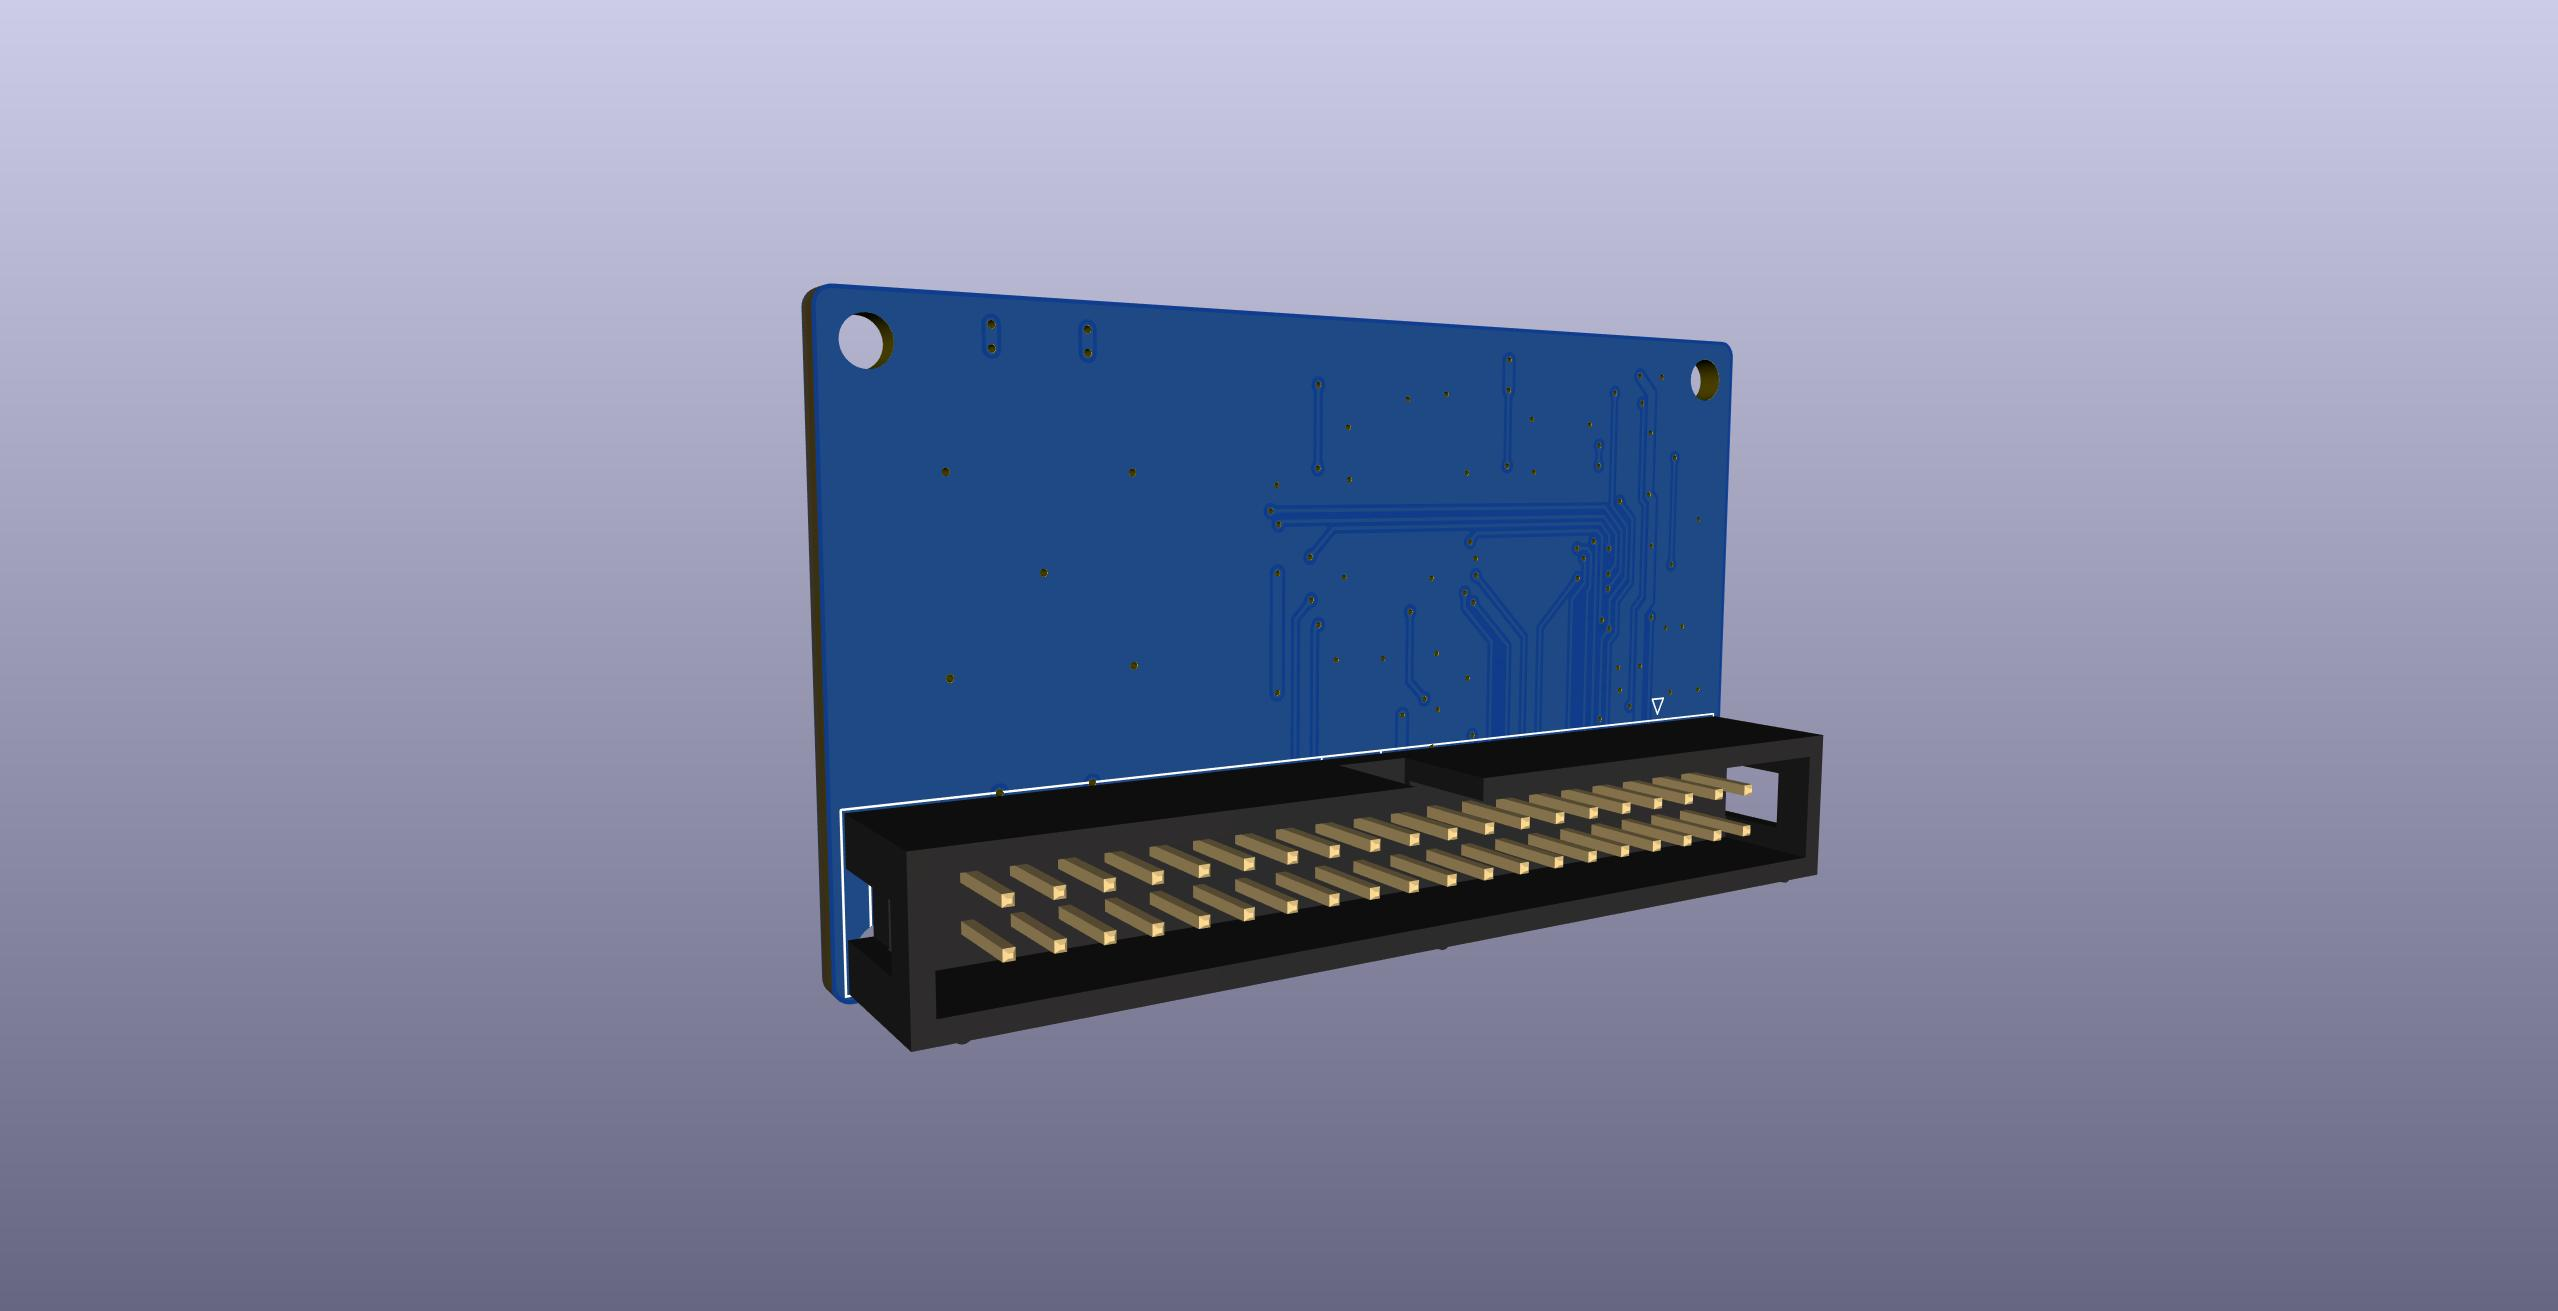
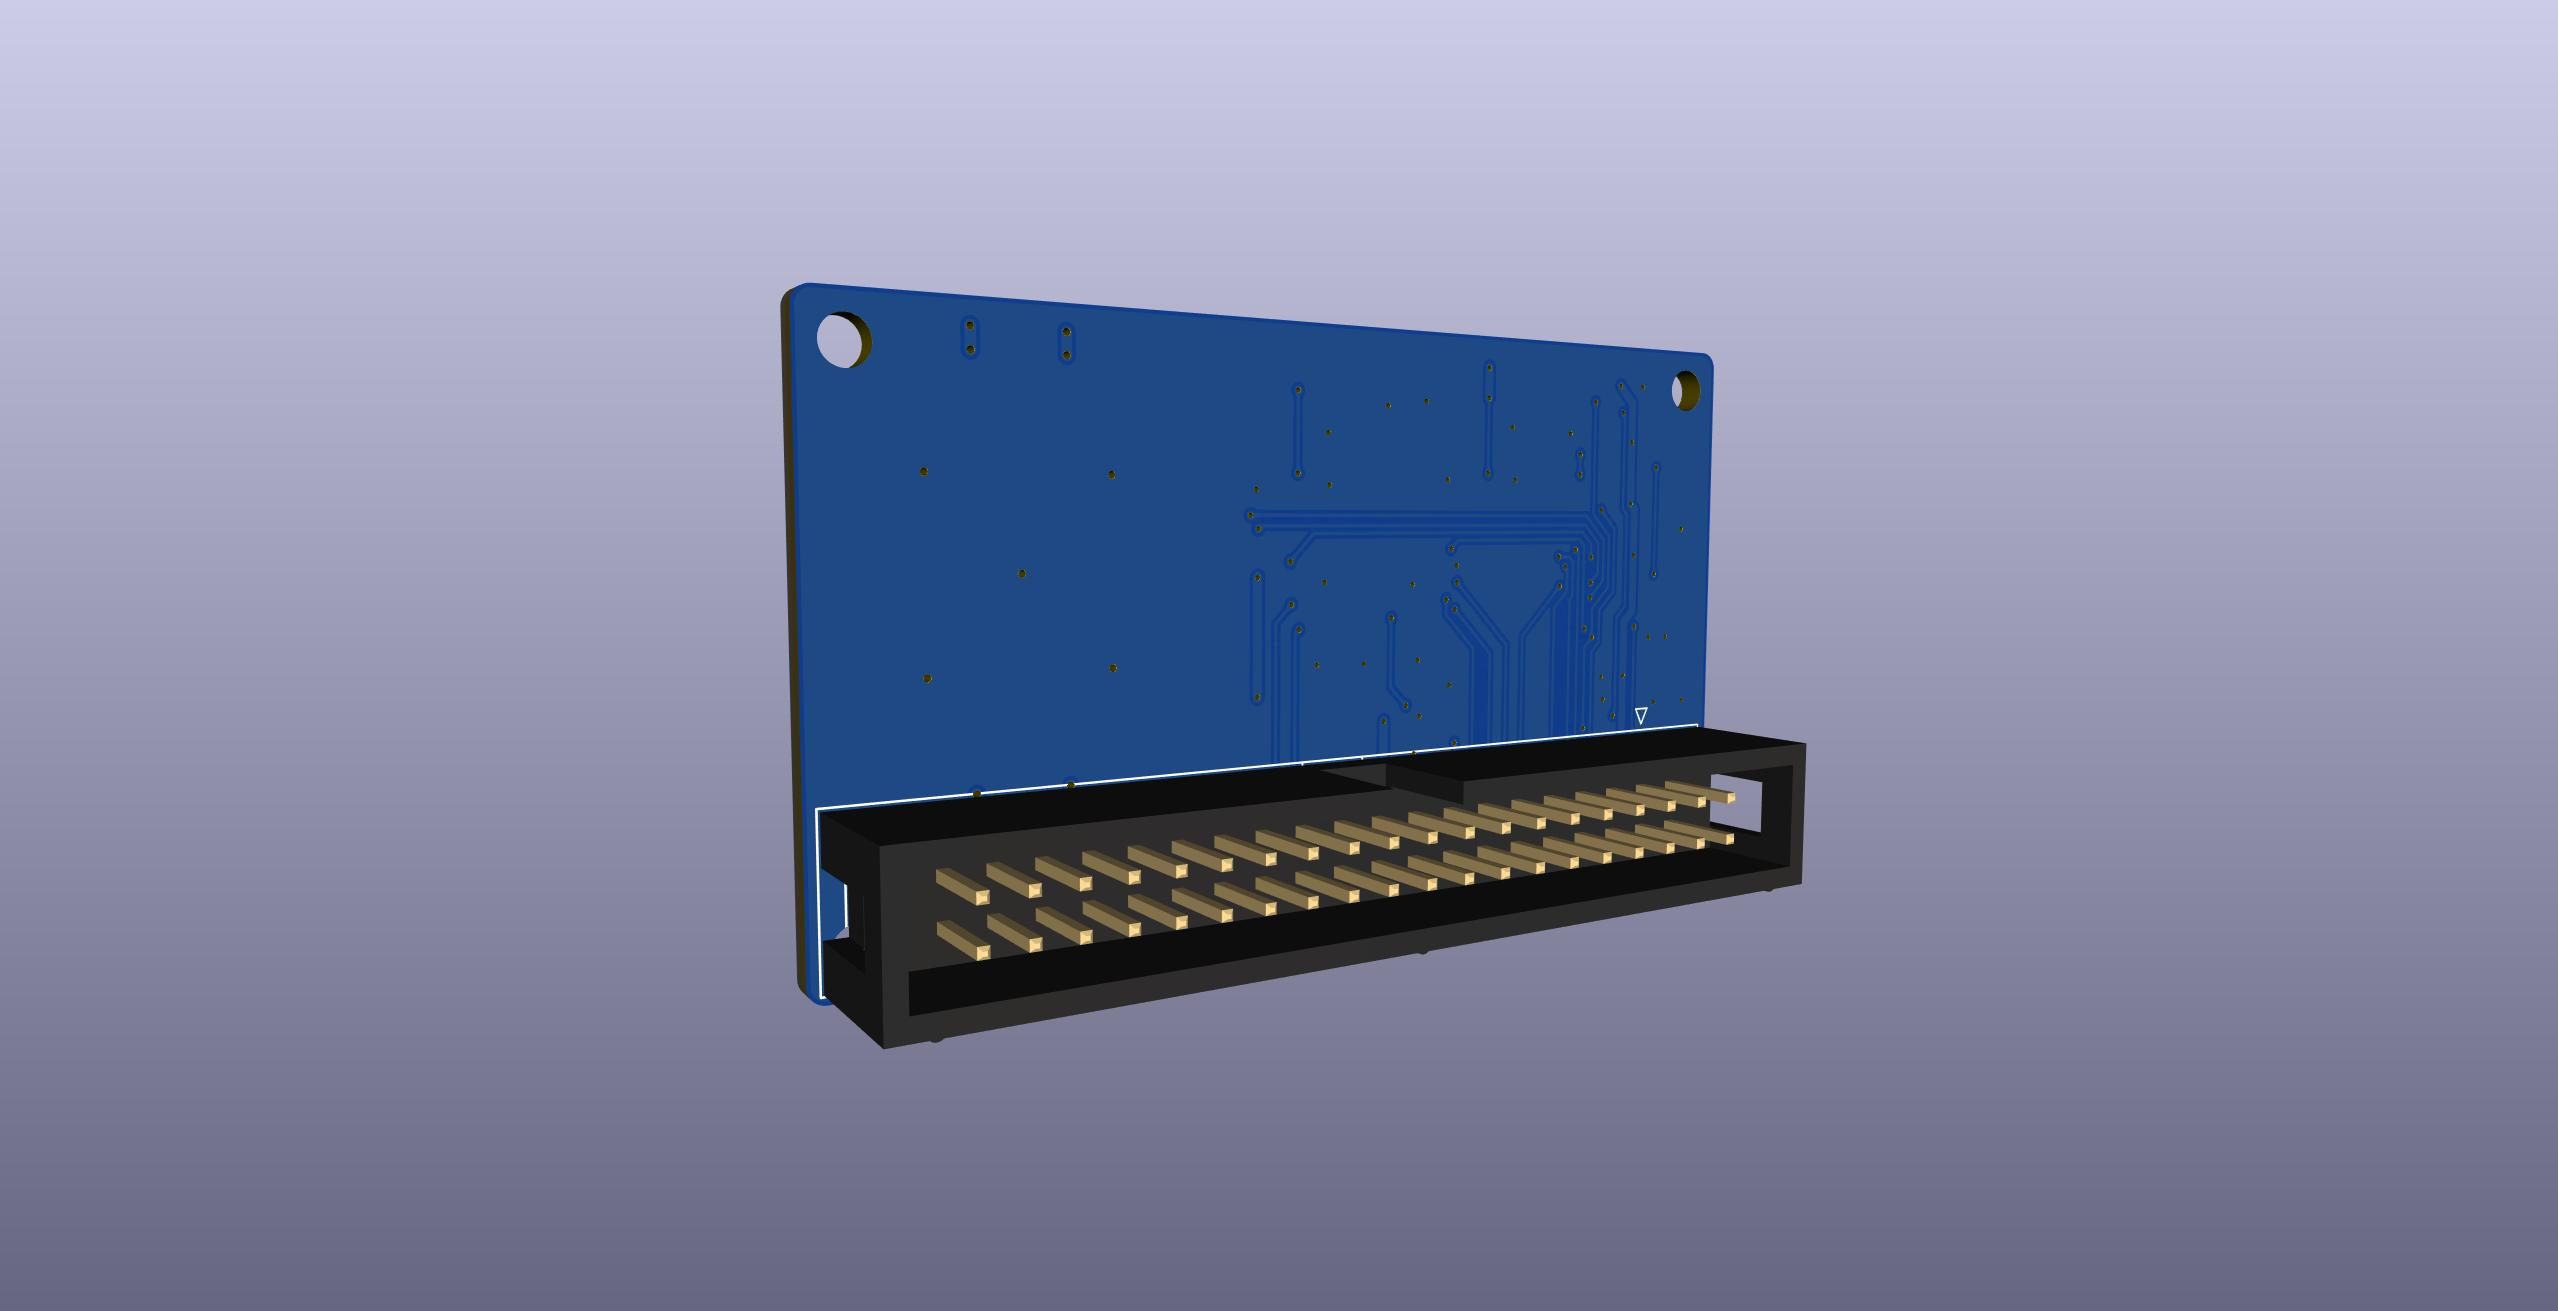
readme and tiny pcb trace position adjustments

Changed region(s): [[0.278, 0.2136, 0.7103, 0.8238]]

diff --git a/README.md b/README.md
@@ -136,10 +136,38 @@ The device is actually acting a bit like a disk even though it has no brains or 
 
 I do not yet know how the software side of the process works.
 
-# WIP: "MiniNDP"
-* Replace all the THT parts with SMT parts  
-* Replace the 8 32k chips and chip-select decoder with a single 256k or 512k chip  
-* 
+# MiniNDP
+Not yet tested.  
+
+Works the same as DATAPAC (hopefully), just with a single 256k (or 512k) SRAM and all SMT parts, and directly attached instead of connected by a cable.  
+
+Height is only 34mm. The top edge stops about 8.5mm below the top surface of a Model 200, and stands about 6.5mm above the top surface of a Model 102.  
+
+The connector fits in a Model 200 without having to modify the 200.  
+
+Works on Model 100 with the same adapter cable described above.  
+
+All the caps are optional. The original DATAPAC seems to work fine without any. However:  
+* C1 provides about 15 seconds of battery-change time, even assuming the battery has already almost died and is down to 2.3v when removed.  
+* C6 would add to the battery-change time too, but the purpose of C6 is to keep VBUS alive and keep all the chips stable on disconnect, and let the RAM_RST/SLEEP pullup disable the SRAM. I don't know if this is a good or bad idea, or merely harmless but pointless. The original DATAPAC includes a very strong pulldown (5.1k) against VBUS on an active-high enable pin on the 3-8 decoder that disables all 8 sram chips fast if VBUS is disconnected. The new circuit doesn't have that. There is an active-high enable pin on the 256k sram that could be wired up the same way, but that pin is just an un-used address line on the 512k chip, and there is no equivalent active-high enable pin on the 512k chip. So the circuit is desgned to just let RAM_RST/SLEEP take care of disabling the sram on disconnect. This also saves one full milliamp of continuous current drain on the host's batteries while connected to the host.  
+
+D2 is copied from a user mod found on a DATAPAC. It appears to prevent a battery drain on the host computer while the DATAPAC is left connected to the host while the host is turned off. R1 does the job of pulling RAM_RST/SLEEP high whenever needed, so it's not required to rely on the host to drive it high. The pullup is actually even weaker on the original unit, 240k, and the original modded unit works fine, so even the weak pullup is still fast enough to disable sram even during the rapid on/off during data transfers when the sram need to be disabled briefly between each byte address change. If the original unit works with 240k ohm, then 200k will only be faster and safer. However, to more strictly replicate the original DATAPAC circuit if you wanted, you could omit D2 and short D2 pads 2 & 3 with a solder blob.  
+
+BT1 is shown using a CR2032 holder. This is thin, but still the tallest/thickest thing on the board.  
+If you wanted the card to be even thinner & more even, you could substitute a CR2016 holder.  
+A CR2032 gives over 7.5 years of memory. (200mAh to reach 2.4v / 3uA)  
+A CR2016 gives about 3 years of memory. (80mAh to reach 2.4v / 3uA)  
+Equivalent part numbers for holders that fit the same solder footprint:  
+For CR2032: Keystone 3034, TE/Linx BAT-HLD-001, Adam Tech BH-67, MPD BK-912  
+For CR2016: Keystone 3029, TE/Linx BAT-HLD-002  
+
+The SRAM is shown using a 256Kx8 part. This is the ideal part since it's a 256K device and no ram is wasted, but 256Kx8 5v parallel sram are uncommon today. It is an uncommon in-between size, where both 128k and 512k are more commonly manufactured. AS6C2008A are still made new, and can be ordered in individual quantities from Mouser, but for instance DigiKey only sells them in bulk. That is a single manufacturer and a single retailer, not counting ebay.  
+But AS6C4008 is more available. Both DigiKey and Mouser sell them new in individual quantities. There are also a few other manufacturers still making similar parts, though not available in individual quantities. 512Kx8 are basically more available than 256Kx8.  
+To allow the drop-in use of either a 256K or 512K part, the active-high CE2 pin on the 256K part is not used to enable or disable the chip, only the active-low /CE1. CE2 is tied to VMEM, making it no-op on the 256K part.  
+The 512K part has no active-high CE2 pin. That pin is instead an extra address line, which is also effectively no-op by being tied to VMEM.  
+So either 256Kx8 (AS6C2008A) or 512Kx8 (AS6C4008) may be dropped in place and work the same.  
+For the 256K part, note that it must specifically be AS6C2008A and not AS6C2008. Only the A version is 5v tolerant.  
+For the 512K part, there is no A version. AS6C4008 is 5v tolerant.  
 ![](PCB/out/MiniNDP_256.svg)
 ![](PCB/out/MiniNDP_256_top.jpg)
 ![](PCB/out/MiniNDP_256_bottom.jpg)
